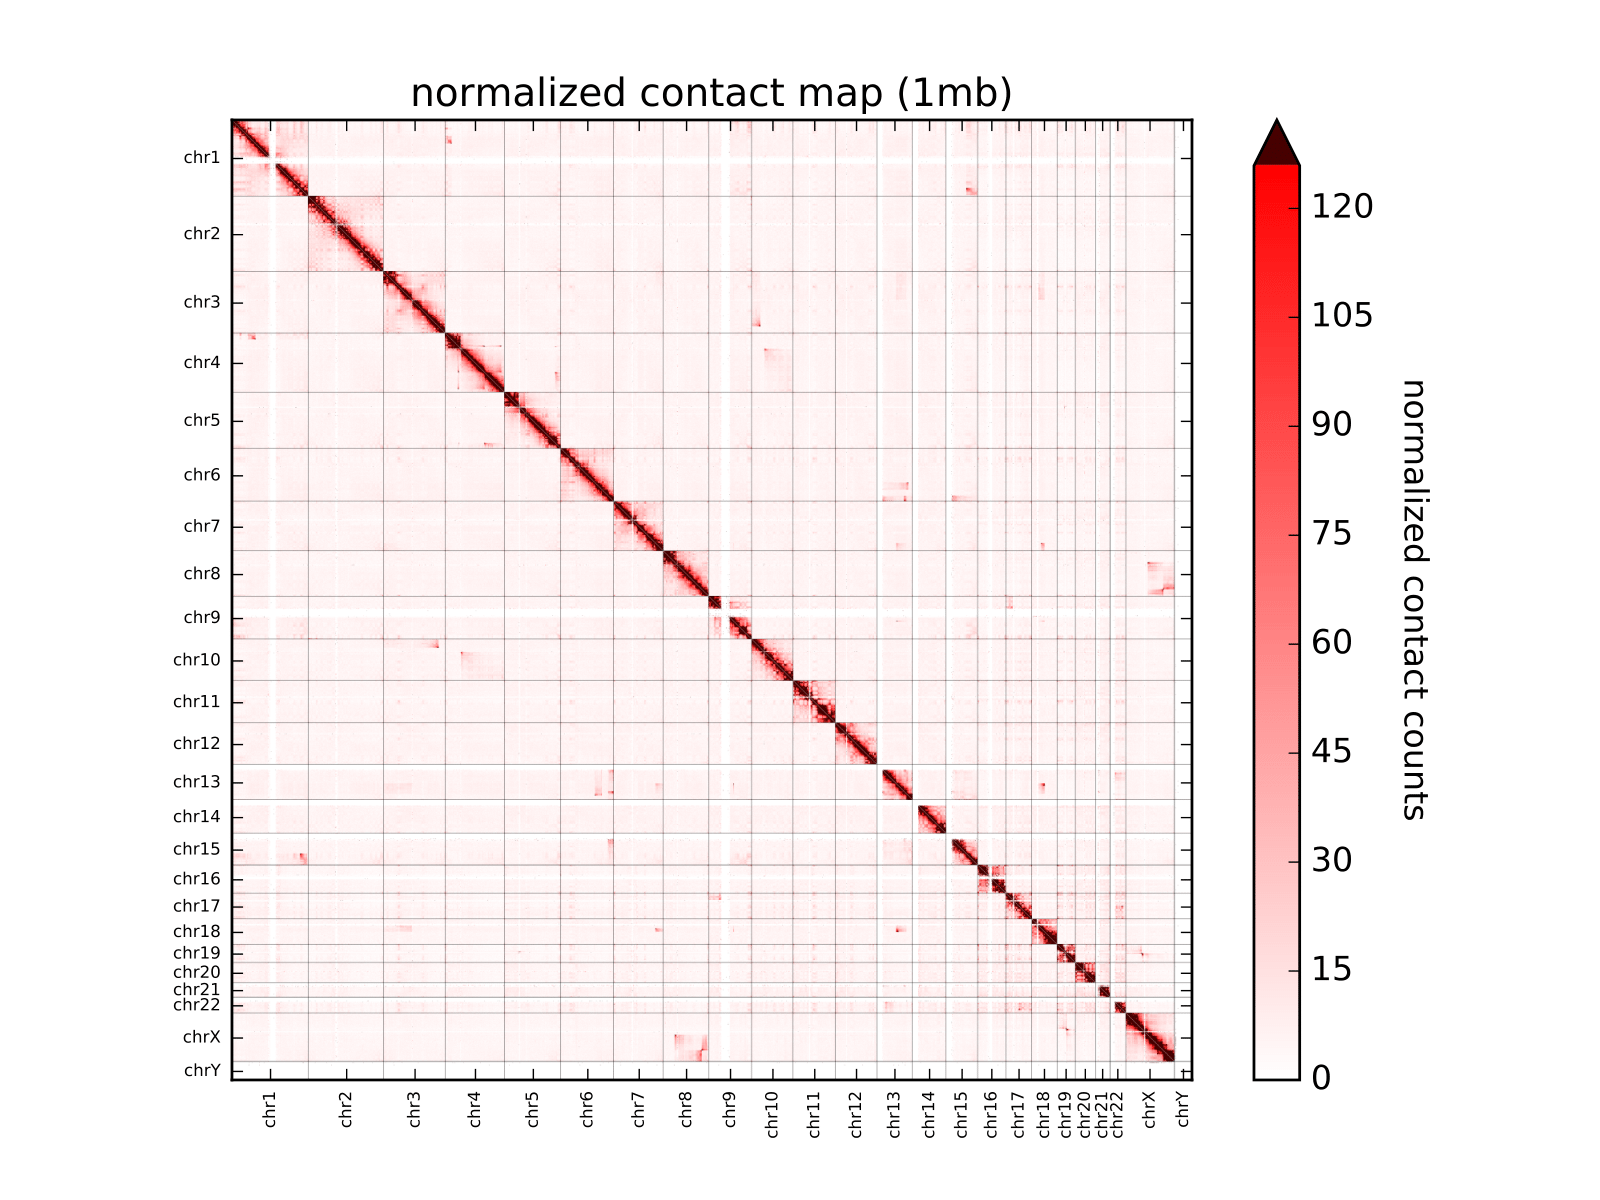
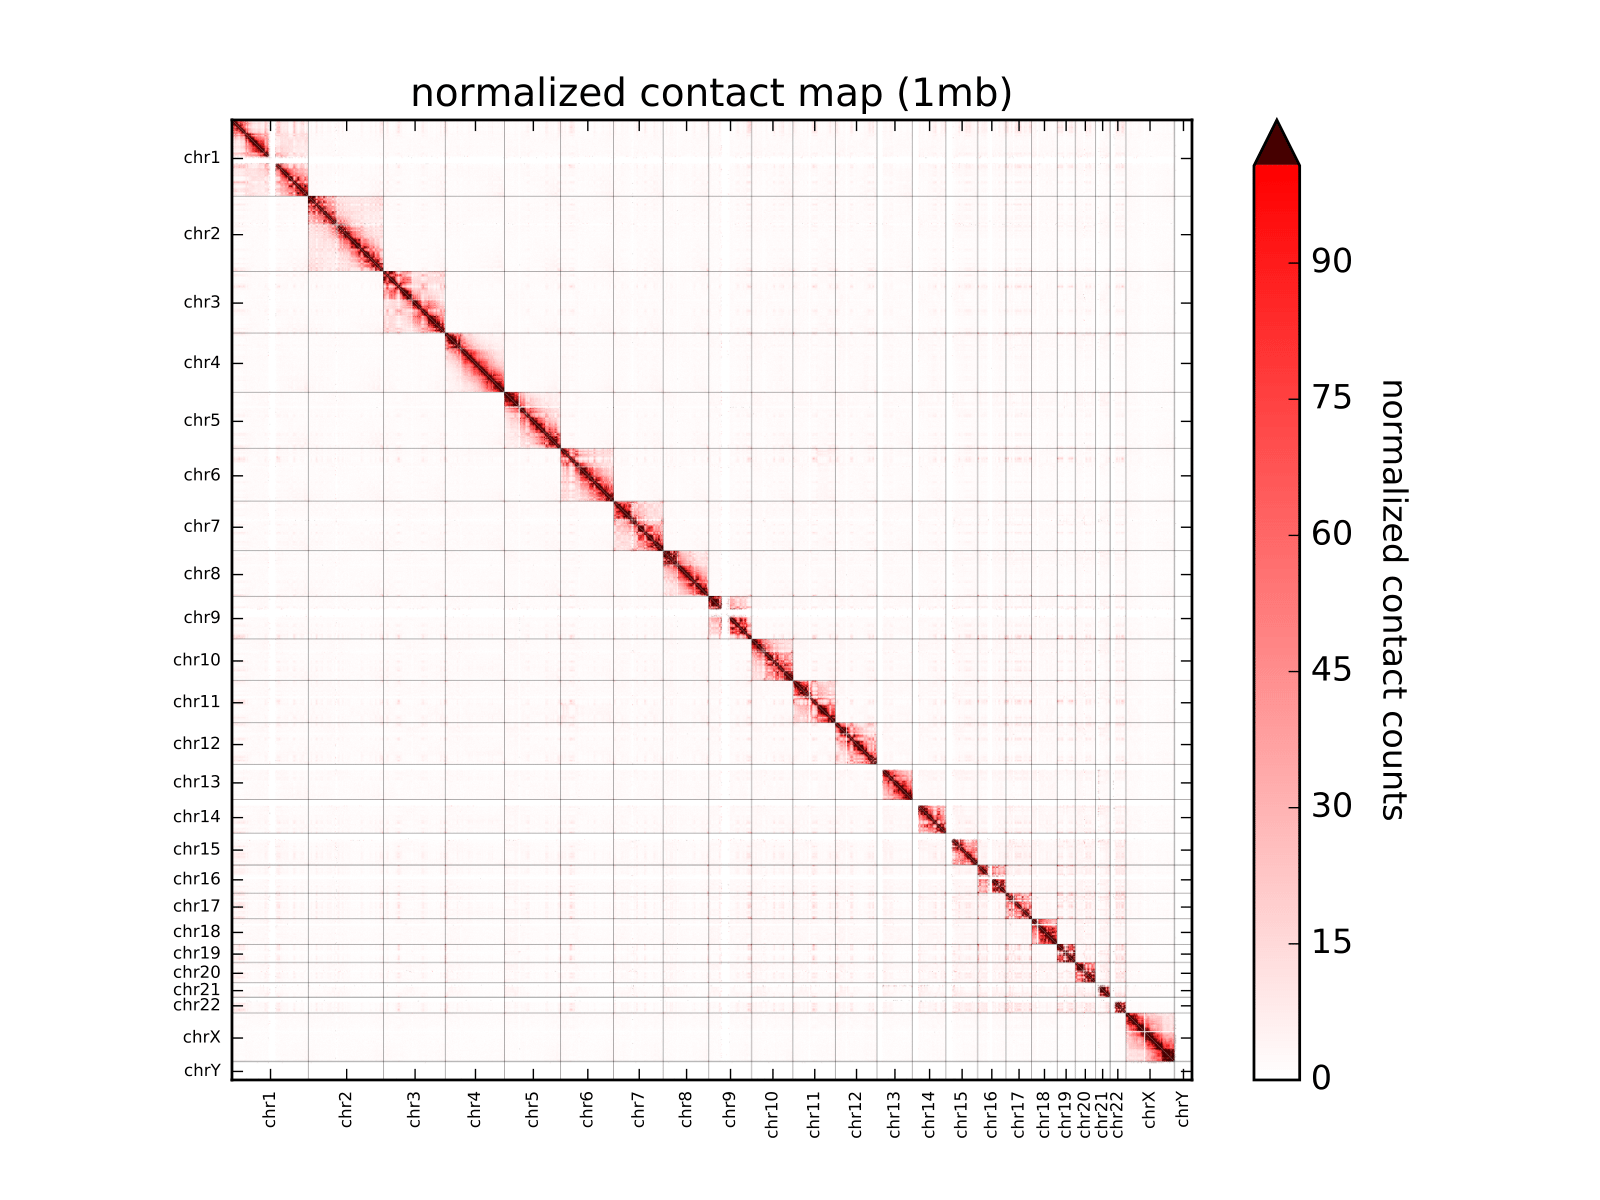
.

diff --git a/tutorial/normalization-matrix-balancing.md b/tutorial/normalization-matrix-balancing.md
@@ -9,7 +9,7 @@ This pipeline illustrates the procedure to normalize a **global Hi-C contact map
    - [1.2. Creating the HiCData object](#12-creating-the-hicdata-object)
    - [1.3. Creating the HiC project object](#13-creating-the-hic-project-object)
 2. [Generating the global observed contact matrix](#2-generating-the-global-observed-contact-matrix)
-   - [2.1. Multi-processing matrix generation](#21-multi-processing-matrix-generation)
+   - [2.1. Single-processor matrix generation](#21-single-processor-matrix-generation)
 3. [Normalizing the global contact matrix](#3-normalizing-the-global-contact-matrix)
 4. [Visualizing the data](#4-visualizing-the-data)
    - [4.1. Visualizing the global contact data](#41-visualizing-the-global-contact-data)
@@ -75,16 +75,15 @@ where ``HiC_project_object.hdf5`` specifies the location to save the HiC object 
 
 This section will allow you to generate a **global square contact matrix** (24-by-24 chromosomes for hg38). The total number of bins of this big matrix will depend on the resolution of the data, and it can be estimated as the entire genome length ratio the resolution (for hg38 at 1Mb resolution is 3078x3078). The observed data contain the observed read count per each bin.
 
-To generate the global observed contact matrix, open the Python or iPython console and use the function ``compute_matrix_data_full_observed`` of [HiCtool_full_map.py](/scripts/HiCtool_full_map.py):
+Especially at higher resolution, the generation of the global observed contact matrix may be computationally expensive and require longer time. Therefore, we implemented a code to allow a job parallelization. Each row of the contact matrix is computed in parallel, meaning all the contact matrices per each chromosome, and finally they are merged together to generate the global matrix. Each row of the matrix is saved as temporary file, which is automatically deleted after merging.
+
+If you do not possess a multi-processor machine, go to [section 2.1.](#21-single-processor-matrix-generation) to run the code using a single processor.
+
+To calculate and save the global observed contact matrix in parallel use the script [HiCtool_full_map_parallel.py](/scripts/HiCtool_full_map_parallel.py). **Open the script, update the parameters on the top and save.** Then, just execute the script:
 ```Python
-execfile('HiCtool_full_map.py')
-my_global_matrix = compute_matrix_data_full_observed(input_file='HiC_project_object.hdf5',
-                                                                bin_size=1000000, 
-                                                                species='hg38', 
-                                                                save_each_matrix=False, 
-                                                                save_tab=True)
+execfile('HiCtool_full_map_parallel.py')
 ```
-The function contains easy parameters to be set. It is possible also to use a custom species (see API documentation). Note that the global matrix will be saved as default using a compressed format but to normalize the data using Hi-Corrector a tab separated format is required. The parameter ``save_tab``, if set as ``True``, will save the global contact matrix in tab separated format, and this will be the input file to the normalization algorithm of Hi-Corrector. Besides the global contact matrix file, another file named **info.txt** will be saved. This contains information that are required to be inserted as Hi-Corrector input as well.
+The global matrix will be saved as default using a compressed format but to normalize the data using Hi-Corrector a tab separated format is required. Therefore, also the global contact matrix in tab separated format will be saved, and this will be the input file to the normalization algorithm of Hi-Corrector. Besides the global contact matrix file, another file named **info.txt** will be saved. This contains information that are required to be inserted as Hi-Corrector input as well.
 
 After having generated the global contact matrix, it is possible to extract a single contact matrix (either intra- or inter-chromosomal) using the function ``extract_single_map`` as following:
 ```Python
@@ -105,14 +104,18 @@ chr1_2_inter = extract_single_map(input_global_matrix=my_global_matrix,
                                   save_tab=True)
 ```
 
-### 2.1. Multi-processing matrix generation
+### 2.1. Single-processor matrix generation
 
-At higher resolution, the generation of the global observed contact matrix may be computationally expensive and require longer time. Therefore, we implemented a code to allow a job parallelization. Each row of the contact matrix is computed in parallel, meaning all the contact matrices per each chromosome, and finally they are merged together to generate the global matrix. Each row of the matrix is saved as temporary file, which is automatically deleted after merging.
-
-To calculate and save the global observed contact matrix in parallel use the script [HiCtool_full_map_parallel.py](/scripts/HiCtool_full_map_parallel.py). **Open the script, update the parameters on the top and save.** Then, just execute the script:
+To generate the global observed contact matrix with a single processor, open the Python or iPython console and use the function ``compute_matrix_data_full_observed`` of [HiCtool_full_map.py](/scripts/HiCtool_full_map.py):
 ```Python
-execfile('HiCtool_full_map_parallel.py')
+execfile('HiCtool_full_map.py')
+my_global_matrix = compute_matrix_data_full_observed(input_file='HiC_project_object.hdf5',
+                                                     bin_size=1000000, 
+                                                     species='hg38', 
+                                                     save_each_matrix=False, 
+                                                     save_tab=True)
 ```
+The function contains easy parameters to be set. It is possible also to use a custom species (see API documentation). Note that the global matrix will be saved as default using a compressed format but to normalize the data using Hi-Corrector a tab separated format is required. The parameter ``save_tab``, if set as ``True``, will save the global contact matrix in tab separated format, and this will be the input file to the normalization algorithm of Hi-Corrector. Besides the global contact matrix file, another file named **info.txt** will be saved. This contains information that are required to be inserted as Hi-Corrector input as well.
 
 ## 3. Normalizing the global contact matrix
 
@@ -124,7 +127,7 @@ chmod u+x run_ic_mes.sh
 ./run_ic_mes.sh -q 100 \
                 -m "100" \
                 -r 3078 \
-                -s 33632 \
+                -s 17237 \
                 -h "/path_to_Hi-Corrector/Hi-Corrector1.2" \
                 -i "HiCtool_1mb_matrix_global_observed_tab.txt"
 ```
@@ -202,3 +205,65 @@ plot_map(input_global_matrix='output_normalized.txt',
 ![](/figures/HiCtool_1mb_normalized.png)
 
 ### 4.2. Visualizing a single heatmap
+
+A single contact matrix can be plotted by passing as argument the chromosome in the rows (``chr_row``) and in the columns (``chr_col``). 
+
+To plot the intra-chromosomal heatmap of chromosome 6, run the following:
+```Python
+# Observed contact heatmap
+plot_map(input_global_matrix='HiCtool_1mb_matrix_global_observed.txt',
+         tab_sep=False,
+         chr_row='6', chr_col='6', 
+         bin_size=1000000, 
+         data_type="observed",
+         species='hg38',
+         my_colormap=['white', 'red'],
+         cutoff_type='perc',
+         cutoff=99,
+         max_color='#460000')
+
+# Normalized contact heatmap
+plot_map(input_global_matrix='output_normalized.txt',
+         tab_sep=True,
+         chr_row='6', chr_col='6', 
+         bin_size=1000000, 
+         data_type="normalized",
+         species='hg38',
+         my_colormap=['white', 'red'],
+         cutoff_type='perc',
+         cutoff=99,
+         max_color='#460000')
+```
+Observed            |  Normalized
+:-------------------------:|:-------------------------:
+![](/figures/HiCtool_chr6_chr6_1mb_170x170_observed.png)  |  ![](/figures/HiCtool_chr6_chr6_1mb_170x170_normalized.png)
+
+An inter-chromosomal heatmap can be also plotted (chr6-chr3) by setting the parameters ``chr_row`` and ``chr_col``:
+```Python
+# Observed contact heatmap
+plot_map(input_global_matrix='HiCtool_1mb_matrix_global_observed.txt',
+         tab_sep=False,
+         chr_row='6', chr_col='3', 
+         bin_size=1000000, 
+         data_type="observed",
+         species='hg38',
+         my_colormap=['white', 'red'],
+         cutoff_type='perc',
+         cutoff=99,
+         max_color='#460000')
+
+# Normalized contact heatmap
+plot_map(input_global_matrix='output_normalized.txt',
+         tab_sep=True,
+         chr_row='6', chr_col='3', 
+         bin_size=1000000, 
+         data_type="normalized",
+         species='hg38',
+         my_colormap=['white', 'red'],
+         cutoff_type='perc',
+         cutoff=99,
+         max_color='#460000')
+```
+Observed            |  Normalized
+:-------------------------:|:-------------------------:
+![](/figures/HiCtool_chr6_chr3_1mb_170x198_observed.png)  |  ![](/figures/HiCtool_chr6_chr3_1mb_170x198_normalized.png)
